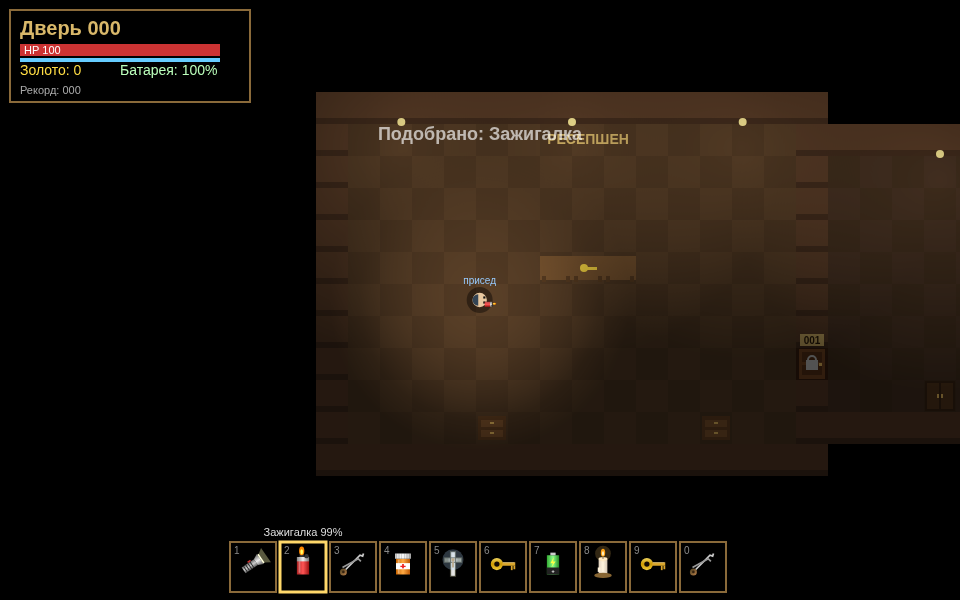
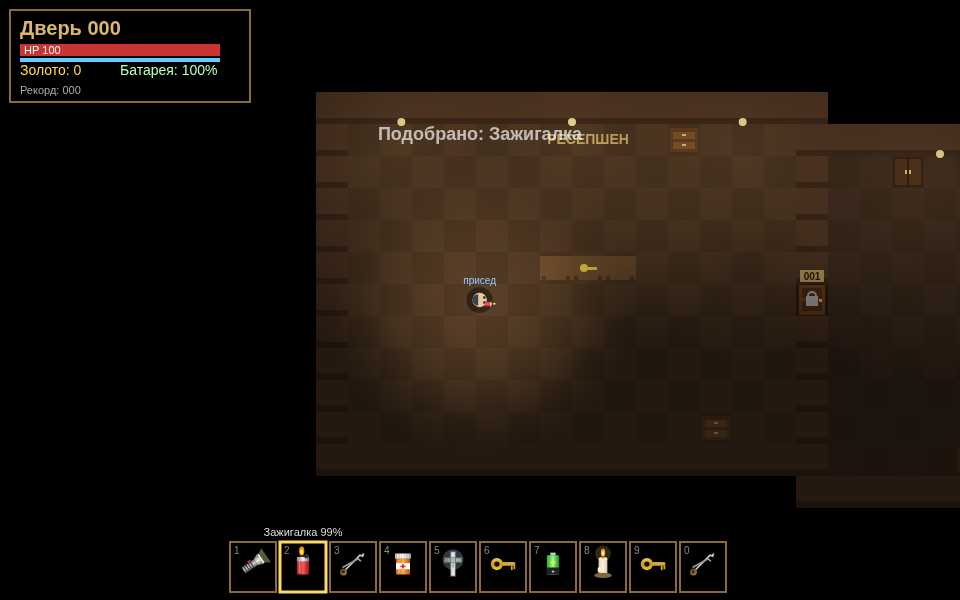
Toggle run/crouch, remove Ctrl crouch, beforeunload guard; redrawn DOORS-inspired entity sprites, vignette/shake

diff --git a/index.html b/index.html
@@ -160,7 +160,8 @@ function useSlot(i){P.sel=i;const it=P.inv[i];
   if(it==='battery'){P.bat=100;P.fuel=100;removeItem('battery');SND.pick();msg('Фонарик заряжен')}else if(it==='vitamins'){P.vit=7;P.hp=Math.min(100,P.hp+15);removeItem('vitamins');SND.pick();msg('Витамины: скорость!')}}
 function useCrucifix(name){removeItem('crucifix');SND.holy();msg('Распятие изгнало: '+name+'!',3)}
 // ---------- INPUT ----------
-addEventListener('keydown',e=>{au();K[e.code]=true;if(['Space','ArrowUp','ArrowDown','ArrowLeft','ArrowRight'].includes(e.code))e.preventDefault();if(!e.repeat)handleKey(e.code)});
+addEventListener('beforeunload',e=>{let a=false;try{a=S&&S.rooms&&!S.dead}catch(_){}if(a){e.preventDefault();e.returnValue=''}});
+addEventListener('keydown',e=>{au();K[e.code]=true;if(['Space','Tab','ShiftLeft','ShiftRight','KeyC','KeyE','KeyF','KeyG','KeyQ','KeyM','KeyW','KeyA','KeyS','KeyD','Digit1','Digit2','Digit3','Digit4','Digit5','Digit6','Digit7','Digit8','Digit9','Digit0'].includes(e.code)&&!e.ctrlKey&&!e.metaKey||['Space','ArrowUp','ArrowDown','ArrowLeft','ArrowRight'].includes(e.code))e.preventDefault();if(!e.repeat)handleKey(e.code)});
 function handleKey(code){const e={code};
  if(code==='KeyM'){MUTE=!MUTE;setVol();msg(MUTE?'Звук выключен (M)':'Звук включён (M)',1.5);return}
  if(code==='Minus'||code==='NumpadSubtract'||code==='BracketLeft'){VOL=Math.max(0,+(VOL-.1).toFixed(2));MUTE=false;setVol();msg('Громкость '+Math.round(VOL*100)+'%',1.2);return}
@@ -174,7 +175,8 @@ function handleKey(code){const e={code};
  if(S.shop){const m=/^Digit([1-4])$/.exec(e.code);if(m){const [it,pr]=SHOP[+m[1]-1];if(P.gold<pr){SND.bad();msg('Недостаточно золота')}else if(addItem(it)){P.gold-=pr;SND.gold();msg('Куплено: '+ITEM[it].n)}}else if(e.code==='Escape'||e.code==='KeyE')S.shop=false;return}
  if(e.code==='KeyE'){const d=!P.hidden&&nearDrop();if(d){if(addItem(d.it)){S.drops.splice(S.drops.indexOf(d),1);SND.pick();msg('Подобрано: '+ITEM[d.it].n,1.5)}}else interact()}
  if(e.code==='KeyG')dropItem();
- if(e.code==='KeyC'||e.code==='ControlLeft'||e.code==='ControlRight'){if(touch&&e.code==='KeyC')P.crouch=!P.crouch}
+ if(e.code==='KeyC'){P.crouch=!P.crouch;if(P.crouch)P.run=false}
+ if(e.code==='ShiftLeft'||e.code==='ShiftRight'){P.run=!P.run;if(P.run)P.crouch=false;msg(P.run?'Бег: ВКЛ':'Бег: выкл',.8)}
  if(e.code==='KeyF'){if(P.inv.includes('flashlight')){if(P.bat>0){P.light=!P.light;tone(1500,.03,'square',.05)}else msg('Батарейка села')}else msg('Нет фонарика')}
  const m=/^Digit(\d)$/.exec(e.code);if(m){const i=(+m[1]+9)%10;if(P.sel===i&&P.inv[i]==='flashlight'&&P.bat>0)P.light=!P.light;useSlot(i)}
  if(e.code==='WheelDown')P.sel=(P.sel+1)%10;if(e.code==='WheelUp')P.sel=(P.sel+9)%10;
@@ -250,7 +252,7 @@ function update(dt){audioTick(dt);
  if(P.hidden||S.codeInput!==null||S.shop)mx=my=0;
  if(Math.hypot(TM.x,TM.y)>.2){mx+=TM.x;my+=TM.y}
  if(P.hidden||S.codeInput!==null||S.shop){mx=my=0}
- P.crouch=touch?P.crouch:!!(K.KeyC||K.ControlLeft||K.ControlRight);if(S.seek&&P.crouch&&touch)P.crouch=false;const want=!P.crouch&&!!(K.ShiftLeft||K.ShiftRight)&&(mx||my);const run=want&&!P.tired;if(run)P.st-=dt*(S.seek?0:20);else P.st=Math.min(100,P.st+dt*(want?6:15));if(P.st<=0){P.st=0;P.tired=true;msg('Нет сил бежать...',1.5)}if(P.tired&&P.st>35)P.tired=false;if(P.stun>0)P.stun-=dt;if(P.vit>0)P.vit-=dt;if(P.fireCd>0)P.fireCd-=dt;
+ if(S.seek&&P.crouch)P.crouch=false;const want=!P.crouch&&!!P.run&&(mx||my);const run=want&&!P.tired;if(run)P.st-=dt*(S.seek?0:20);else P.st=Math.min(100,P.st+dt*(want?6:15));if(P.st<=0){P.st=0;P.tired=true;P.run=false;msg('Нет сил бежать...',1.5)}if(P.tired&&P.st>35)P.tired=false;if(P.stun>0)P.stun-=dt;if(P.vit>0)P.vit-=dt;if(P.fireCd>0)P.fireCd-=dt;
  const sp=(run?205:P.crouch?62:115)*(P.vit>0?1.3:1)*(P.stun>0?0:1);
  if(performance.now()/1000-mouse.t<1.5)P.face=Math.atan2(mouse.y-H/2,mouse.x-W/2);
  if((mx||my)&&sp>0){const l=Math.hypot(mx,my);mx/=l;my/=l;if(performance.now()/1000-mouse.t>=1.5)P.face=Math.atan2(my,mx);move(mx*sp*dt,my*sp*dt);stepT-=dt;if(stepT<=0){SND.step(run);stepT=run?.25:.42}P.noise=run?330:P.crouch?0:70;if(P.crouch)stepT+=dt*.5}else P.noise=0;
@@ -315,7 +317,7 @@ function drawDoor(px,py,num,state){X.fillStyle='#3a2010';X.fillRect(px,py,T,T);i
  if(state==='code'){X.fillStyle='#888';X.fillRect(px+7,py+10,18,13);X.fillStyle='#0f0';X.font='8px monospace';X.fillText('*****',px+16,py+19)}}
 function drawObj(o,px,py,t){switch(o.t){
  case 'dresser':X.fillStyle='#6b4423';X.fillRect(px+2,py+4,28,24);X.fillStyle=o.used?'#2a1a0c':'#8a5a30';X.fillRect(px+5,py+8,22,7);X.fillStyle='#8a5a30';X.fillRect(px+5,py+18,22,7);X.fillStyle='#fc6';X.fillRect(px+14,py+10,4,2);X.fillRect(px+14,py+20,4,2);break;
- case 'wardrobe':X.fillStyle='#3d2614';X.fillRect(px+1,py+1,30,30);X.fillStyle='#5a3a1e';X.fillRect(px+3,py+3,12,26);X.fillRect(px+17,py+3,12,26);X.fillStyle='#fc6';X.fillRect(px+13,py+14,2,4);X.fillRect(px+17,py+14,2,4);break;
+ case 'wardrobe':X.fillStyle='#3d2614';X.fillRect(px+1,py+1,30,30);X.fillStyle='#5a3a1e';X.fillRect(px+3,py+3,12,26);X.fillRect(px+17,py+3,12,26);X.fillStyle='#fc6';X.fillRect(px+13,py+14,2,4);X.fillRect(px+17,py+14,2,4);if(P.hidden===o&&P.hideT>6)ED.hideEyes(px,py,S.t,(P.hideT-6)/4);break;
  case 'bed':X.fillStyle='#5a3a1e';X.fillRect(px,py+2,32,28);X.fillStyle='#8a1e24';X.fillRect(px+2,py+10,28,18);X.fillStyle='#ddd';X.fillRect(px+4,py+4,24,6);break;
  case 'desk':X.fillStyle='#7a5530';X.fillRect(px,py+4,32,24);X.fillStyle='#5a3d22';X.fillRect(px+2,py+24,4,6);X.fillRect(px+26,py+24,4,6);if(o.hasKey){X.fillStyle='#fd4';X.beginPath();X.arc(px+12,py+16,4,0,7);X.fill();X.fillRect(px+15,py+15,10,3)}break;
  case 'shelf':X.fillStyle='#3a2412';X.fillRect(px,py+2,32,28);for(let i=0;i<5;i++){X.fillStyle=['#833','#358','#583','#885','#636'][(hash(o.x,o.y)+i)%5];X.fillRect(px+2+i*6,py+5,5,10);X.fillRect(px+3+i*6,py+18,5,10)}break;
@@ -324,13 +326,49 @@ function drawObj(o,px,py,t){switch(o.t){
  case 'rubble':X.fillStyle='#4a4038';X.fillRect(px+1,py+1,30,30);X.fillStyle='#6a5a4a';X.fillRect(px+4,py+6,10,8);X.fillRect(px+16,py+16,12,10);break;
  case 'fire':for(let i=0;i<3;i++){X.fillStyle=['#f40','#f80','#fd2'][i];const h=14-i*4+Math.sin(t*15+i)*3;X.beginPath();X.moveTo(px+6+i*3,py+28);X.lineTo(px+16,py+28-h-8);X.lineTo(px+26-i*3,py+28);X.fill()}break;
  case 'plant':X.fillStyle='#2f5a22';X.beginPath();X.arc(px+16,py+16,14,0,7);X.fill();X.fillStyle='#3f7a2c';X.beginPath();X.arc(px+11,py+12,7,0,7);X.arc(px+21,py+19,7,0,7);X.fill();break;
- case 'snare':X.strokeStyle=o.used?'#555':'#777';X.lineWidth=2;X.beginPath();X.arc(px+16,py+16,o.used?5:9,0,7);X.stroke();if(!o.used)for(let i=0;i<8;i++){const a=i*Math.PI/4;X.beginPath();X.moveTo(px+16+Math.cos(a)*9,py+16+Math.sin(a)*9);X.lineTo(px+16+Math.cos(a)*13,py+16+Math.sin(a)*13);X.stroke()}break;
+ case 'snare':ED.snare(px,py,o.used,S.t);break;
  case 'crate':X.fillStyle='#555a60';X.fillRect(px+1,py+1,30,30);X.fillStyle='#3a3e44';X.fillRect(px+4,py+4,24,4);X.fillStyle='#f33';X.fillRect(px+24,py+12,3,3);break;
  case 'breaker':X.fillStyle='#777';X.fillRect(px+2,py,28,32);X.fillStyle='#222';X.fillRect(px+6,py+4,20,24);X.fillStyle=S.fuses>=10?'#0f0':'#f00';X.fillRect(px+12,py+8,8,6);X.fillStyle='#aaa';X.fillRect(px+14,py+16,4,10);break;
  case 'fuse':X.fillStyle='#fd4';X.fillRect(px+10,py+12,12,8);X.fillStyle='#aaa';X.fillRect(px+7,py+13,3,6);X.fillRect(px+22,py+13,3,6);break;
- case 'fake':drawDoor(px,py,o.num,'closed');break;
+ case 'fake':drawDoor(px,py,o.num,'closed');{const dd=Math.hypot(P.x-px-16,P.y-py-16);if(dd<90)ED.dupeMouth(px,py,S.t,(90-dd)/50)}break;
  case 'clue':X.fillStyle='#eee8d0';X.fillRect(px+6,py+8,20,16);X.fillStyle='#222';X.font='bold 9px Arial';X.textAlign='center';X.fillText(pad(o.num),px+16,py+20);X.fillStyle='#d9b86a';X.font='10px Arial';X.fillText('Следующая дверь',px+16,py+4);break}}
 function light(x,y,r,s,col){const g=LX.createRadialGradient(x,y,0,x,y,r);g.addColorStop(0,'rgba(0,0,0,'+s+')');g.addColorStop(1,'rgba(0,0,0,0)');LX.fillStyle=g;LX.beginPath();LX.arc(x,y,r,0,7);LX.fill()}
+// ===== Entity sprites (procedural, inspired versions) =====
+const ED={
+smoke(x,y,r,c,t,n,seed){for(let i=0;i<n;i++){const a=i/n*6.283+t*(1+(i%3)*.4)+seed,rr=r*(.6+.4*Math.sin(t*3+i*1.7));X.fillStyle=c;X.beginPath();X.arc(x+Math.cos(a)*rr*.55,y+Math.sin(a)*rr*.55,rr*.55,0,7);X.fill()}},
+rush(x,y,t,amb,dir){const R=34,body=amb?'#0d2a12':'#0a0a0a',glow=amb?'rgba(90,255,110,':'rgba(255,255,255,';
+ for(let k=6;k>0;k--){X.globalAlpha=.08*(7-k)/6+.03;ED.smoke(x-dir*k*22,y+Math.sin(t*9+k)*6,R*(1-k*.08),body,t+k,5,k);}X.globalAlpha=1;
+ const g=X.createRadialGradient(x,y,10,x,y,90);g.addColorStop(0,glow+'.35)');g.addColorStop(1,glow+'0)');X.fillStyle=g;X.beginPath();X.arc(x,y,90,0,7);X.fill();
+ const jx=amb?ri(-4,4):ri(-2,2),jy=amb?ri(-4,4):ri(-2,2);ED.smoke(x+jx,y+jy,R,body,t*2,8,0);X.fillStyle=body;X.beginPath();X.arc(x+jx,y+jy,R*.8,0,7);X.fill();x+=jx;y+=jy;
+ if(amb){X.fillStyle='#b8d8b0';X.beginPath();X.ellipse(x,y,22,26,0,0,7);X.fill();X.fillStyle='#000';X.beginPath();X.ellipse(x-8,y-7,6,8,0,0,7);X.ellipse(x+8,y-7,6,8,0,0,7);X.fill();X.fillStyle='#9f9';X.beginPath();X.arc(x-8,y-6,1.5,0,7);X.arc(x+8,y-6,1.5,0,7);X.fill();X.fillStyle='#000';X.beginPath();X.ellipse(x,y+11,7,9+Math.sin(t*20)*2,0,0,7);X.fill();
+  if(Math.random()<.4){X.fillStyle='rgba(80,255,100,.5)';X.fillRect(x-30,y+ri(-25,25),60,ri(2,5))}}
+ else{X.fillStyle='#fff';X.beginPath();X.ellipse(x-11,y-10,8,7,-.2,0,7);X.ellipse(x+11,y-10,8,7,.2,0,7);X.fill();X.fillStyle='#000';X.beginPath();X.arc(x-11,y-9,2.5,0,7);X.arc(x+11,y-9,2.5,0,7);X.fill();
+  X.fillStyle='#fff';X.beginPath();X.moveTo(x-22,y+2);X.quadraticCurveTo(x,y+30,x+22,y+2);X.quadraticCurveTo(x,y+12,x-22,y+2);X.fill();X.strokeStyle='#000';X.lineWidth=1;for(let i=-3;i<=3;i++){X.beginPath();X.moveTo(x+i*6,y+5);X.lineTo(x+i*6,y+18-Math.abs(i)*2);X.stroke()}}},
+screech(x,y,t,open){X.fillStyle='#050505';for(let i=0;i<12;i++){const a=i/12*6.283+Math.sin(t*4+i)*.25,l=18+6*Math.sin(t*6+i*2);X.beginPath();X.moveTo(x+Math.cos(a-.2)*10,y+Math.sin(a-.2)*10);X.lineTo(x+Math.cos(a)*l,y+Math.sin(a)*l);X.lineTo(x+Math.cos(a+.2)*10,y+Math.sin(a+.2)*10);X.fill()}
+ X.beginPath();X.arc(x,y,13,0,7);X.fill();const m=open?10:4;X.fillStyle='#3a0606';X.beginPath();X.arc(x,y+1,m,0,7);X.fill();X.fillStyle='#eee';const n=open?12:6;for(let i=0;i<n;i++){const a=i/n*6.283;X.beginPath();X.moveTo(x+Math.cos(a-.25)*m,y+1+Math.sin(a-.25)*m);X.lineTo(x+Math.cos(a)*m*.45,y+1+Math.sin(a)*m*.45);X.lineTo(x+Math.cos(a+.25)*m,y+1+Math.sin(a+.25)*m);X.fill()}},
+eyes(x,y,t){const g=X.createRadialGradient(x,y,8,x,y,70);g.addColorStop(0,'rgba(170,80,255,.55)');g.addColorStop(1,'rgba(90,0,200,0)');X.fillStyle=g;X.beginPath();X.arc(x,y,70,0,7);X.fill();
+ X.fillStyle='#14061f';X.beginPath();X.arc(x,y,24,0,7);X.fill();X.fillStyle='#2a0c40';X.beginPath();X.arc(x-4,y-4,16,0,7);X.fill();
+ const ang=Math.atan2(P.y-y,P.x-x);for(let i=0;i<14;i++){const a=i*2.4+t*.15,r=i<1?0:i<6?11:19,ex=x+Math.cos(a)*r,ey=y+Math.sin(a)*r,s=i<1?6:i<6?4.5:3.5,bl=Math.sin(t*2+i*3)>.95?.2:1;
+  X.fillStyle='#e8d8ff';X.beginPath();X.ellipse(ex,ey,s,s*.7*bl,0,0,7);X.fill();X.fillStyle='#a020ff';X.beginPath();X.arc(ex+Math.cos(ang)*s*.35,ey+Math.sin(ang)*s*.25,s*.45*bl,0,7);X.fill()}},
+halt(x,y,t,a){X.globalAlpha=a;const g=X.createRadialGradient(x,y,5,x,y,60);g.addColorStop(0,'rgba(80,230,255,.6)');g.addColorStop(1,'rgba(0,120,200,0)');X.fillStyle=g;X.beginPath();X.arc(x,y,60,0,7);X.fill();
+ X.fillStyle='#0a2a3a';X.beginPath();X.moveTo(x-14,y+22);X.quadraticCurveTo(x-18,y-6,x,y-22);X.quadraticCurveTo(x+18,y-6,x+14,y+22);for(let i=0;i<5;i++)X.lineTo(x+14-i*7,y+22-(i%2?8:0));X.fill();
+ X.fillStyle='#7ff';X.beginPath();X.ellipse(x-5,y-9,3,2,0,0,7);X.ellipse(x+5,y-9,3,2,0,0,7);X.fill();
+ for(let i=0;i<6;i++){X.fillStyle='rgba(160,255,255,'+Math.random()*.5+')';X.fillRect(x-20+Math.random()*40,y-25+Math.random()*50,ri(3,14),1)}X.globalAlpha=1},
+seek(x,y,t,trail){X.fillStyle='rgba(5,5,5,.8)';if(trail)for(let i=0;i<trail.length;i+=2){const p=trail[i];X.beginPath();X.ellipse(p.x,p.y,9,6,i,0,7);X.fill()}
+ const w=Math.sin(t*8);X.fillStyle='#060606';X.beginPath();X.ellipse(x,y,15+w,22-w,0,0,7);X.fill();
+ for(let i=0;i<4;i++){X.beginPath();X.ellipse(x+(i-1.5)*8,y+20+Math.sin(t*5+i)*3,4,6+Math.sin(t*7+i)*2,0,0,7);X.fill()}
+ X.strokeStyle='#060606';X.lineWidth=5;X.lineCap='round';X.beginPath();X.moveTo(x-12,y-4);X.lineTo(x-24,y+10+w*6);X.moveTo(x+12,y-4);X.lineTo(x+24,y+10-w*6);X.stroke();
+ X.fillStyle='#fff';X.beginPath();X.ellipse(x,y-6,8,6,0,0,7);X.fill();X.fillStyle='#000';X.beginPath();X.arc(x+Math.cos(Math.atan2(P.y-y,P.x-x))*3,y-6,3,0,7);X.fill();X.lineCap='butt'},
+figure(x,y,t,alert,face){X.save();X.translate(x,y);X.rotate(face||0);const b=Math.sin(t*(alert?10:4));
+ X.strokeStyle='#5a1a10';X.lineWidth=6;X.lineCap='round';X.beginPath();X.moveTo(0,-14);X.lineTo(16+b*4,-26);X.lineTo(30+b*6,-20);X.moveTo(0,14);X.lineTo(16-b*4,26);X.lineTo(30-b*6,20);X.stroke();
+ X.fillStyle='#6a2416';X.beginPath();X.ellipse(-2,0,20,17,0,0,7);X.fill();X.strokeStyle='#c8735a';X.lineWidth=2;for(let i=-2;i<=2;i++){X.beginPath();X.arc(-8,i*5,13,-.6,.6);X.stroke()}
+ X.fillStyle='#8a3020';X.beginPath();X.ellipse(14,0,11,10,0,0,7);X.fill();X.fillStyle='#200';X.beginPath();X.ellipse(19,0,6,8,0,0,7);X.fill();X.fillStyle='#f2d0a8';for(let i=-3;i<=3;i++){X.fillRect(15,i*2.2-1,3,1.6);X.fillRect(21,i*2.2-1,3,1.6)}X.restore();X.lineCap='butt'},
+jeff(x,y,t){X.fillStyle='rgba(0,0,0,.4)';X.beginPath();X.ellipse(x,y+14,14,5,0,0,7);X.fill();X.fillStyle='#2a1838';X.fillRect(x-9,y-6,18,22);X.fillStyle='#4a2a6a';X.fillRect(x-14,y-6,5,18);X.fillRect(x+9,y-6,5,18);
+ X.fillStyle='#e8e0d0';X.beginPath();X.ellipse(x,y-14,9,11,0,0,7);X.fill();X.fillStyle='#111';X.beginPath();X.ellipse(x-4,y-15,2,3,0,0,7);X.ellipse(x+4,y-15,2,3,0,0,7);X.fill();X.strokeStyle='#111';X.lineWidth=1.5;X.beginPath();X.arc(x,y-10,4,.2,Math.PI-.2);X.stroke();X.fillStyle='#4a2a6a';X.fillRect(x-10,y-27,20,4);X.fillRect(x-6,y-37,12,10)},
+snare(px,py,used,t){X.fillStyle=used?'#2a2a2a':'#3a3428';X.beginPath();X.arc(px+16,py+16,10,0,7);X.fill();X.fillStyle=used?'#555':'#9a9080';const n=10;for(let i=0;i<n;i++){const a=i/n*6.283;X.beginPath();X.moveTo(px+16+Math.cos(a-.2)*9,py+16+Math.sin(a-.2)*9);X.lineTo(px+16+Math.cos(a)*(used?11:16),py+16+Math.sin(a)*(used?11:16));X.lineTo(px+16+Math.cos(a+.2)*9,py+16+Math.sin(a+.2)*9);X.fill()}X.fillStyle='#5a0';X.beginPath();X.arc(px+16,py+16,3,0,7);X.fill()},
+dupeMouth(px,py,t,k){X.globalAlpha=k;X.fillStyle='#200';X.beginPath();X.ellipse(px+16,py+20,10,5+3*Math.sin(t*6),0,0,7);X.fill();X.fillStyle='#eee';for(let i=-4;i<=4;i++){X.beginPath();X.moveTo(px+16+i*2.2-1,py+16);X.lineTo(px+16+i*2.2,py+20);X.lineTo(px+16+i*2.2+1,py+16);X.fill()}X.fillStyle='#f33';X.beginPath();X.arc(px+11,py+8,1.5,0,7);X.arc(px+21,py+8,1.5,0,7);X.fill();X.globalAlpha=1},
+hideEyes(px,py,t,k){X.globalAlpha=Math.min(1,k);X.fillStyle='#000';X.fillRect(px+6,py+8,20,10);for(let i=0;i<Math.min(6,1+k*5|0);i++){const ex=px+8+(i*7)%18,ey=py+10+(i>2?4:0);X.fillStyle='#fff';X.beginPath();X.ellipse(ex,ey,2.5,1.6,0,0,7);X.fill();X.fillStyle='#000';X.fillRect(ex-.6,ey-1,1.2,2)}X.globalAlpha=1}};
+function vignette(k,c){if(k<=0)return;const g=X.createRadialGradient(W/2,H/2,Math.min(W,H)*.25,W/2,H/2,Math.max(W,H)*.7);g.addColorStop(0,'rgba('+c+',0)');g.addColorStop(1,'rgba('+c+','+Math.min(.85,k)+')');X.fillStyle=g;X.fillRect(0,0,W,H)}
 function render(){
  const t=S.t,room=rooms[P.room];let cx=Math.round(P.x-W/2),cy=Math.round(P.y-H/2);if(S.shake>0){cx+=ri(-5,5);cy+=ri(-5,5)}
  X.fillStyle='#000';X.fillRect(0,0,W,H);X.save();X.translate(-cx,-cy);
@@ -344,7 +382,7 @@ function render(){
  for(const d of allDoors){if(d.x<x0-1||d.x>x1+1||d.y<y0-1||d.y>y1+1)continue;const ft=FLOOR[rooms[d.room].t];X.fillStyle=ft[0];X.fillRect(d.x*T,d.y*T,T,T);drawDoor(d.x*T,d.y*T,d.closet?null:d.n,d.open?'open':d.code?'code':d.locked?'locked':'closed')}
  for(let n=Math.max(0,P.room-2);n<=Math.min(100,P.room+2);n++){const r=rooms[n];for(const l of r.lamps){X.fillStyle='#fe9';X.beginPath();X.arc(l.x,l.y-6,4,0,7);X.fill()}
   for(const o of r.objs)if(!o.gone)drawObj(o,o.x*T,o.y*T,t);
-  if(r.t==='shop'){const jx=(r.x0+6)*T,jy=(r.y0+2)*T+16;X.fillStyle='#5a2a7a';X.beginPath();X.arc(jx,jy,13,0,7);X.fill();X.fillStyle='#fff';X.beginPath();X.arc(jx-5,jy-3,3,0,7);X.arc(jx+5,jy-3,3,0,7);X.fill();X.fillStyle='#ff8';X.font='bold 11px Arial';X.textAlign='center';X.fillText('ДЖЕФФ',jx,jy-18)}
+  if(r.t==='shop'){const jx=(r.x0+6)*T,jy=(r.y0+2)*T+16;ED.jeff(jx,jy,t);X.fillStyle='#ff8';X.font='bold 11px Arial';X.textAlign='center';X.fillText('ДЖЕФФ',jx,jy-18)}
   if(r.t==='reception'){X.fillStyle='#d9b86a';X.font='bold 14px Arial';X.textAlign='center';X.fillText('РЕСЕПШЕН',(r.x0+8)*T+16,(r.y0+1)*T+20)}
   if(r.t==='library'){X.fillStyle='#d9b86a';X.font='bold 14px Arial';X.textAlign='center';X.fillText('БИБЛИОТЕКА',(r.x0+r.w/2)*T,(r.y0+1)*T+20)}}
  // player
@@ -352,9 +390,9 @@ function render(){
  if(!P.hidden){X.save();X.translate(P.x,P.y);if(P.crouch){X.fillStyle='rgba(0,0,0,.4)';X.beginPath();X.arc(0,0,13,0,7);X.fill();X.scale(.72,.72)}X.rotate(P.face);X.fillStyle=P.hurtT>0?'#f66':'#e8c8a0';X.beginPath();X.arc(0,0,10,0,7);X.fill();X.fillStyle='#345';X.beginPath();X.arc(-2,0,8,Math.PI/2,Math.PI*1.5);X.fill();X.fillStyle='#111';X.fillRect(5,-5,3,3);X.fillRect(5,2,3,3);
   if(P.inv[P.sel]){X.save();X.translate(13,6);X.rotate(Math.PI/2);drawIcon(X,P.inv[P.sel],0,0,16);X.restore()}else if(P.light){X.fillStyle='#888';X.fillRect(8,4,8,4)}X.restore();if(P.crouch){X.fillStyle='#9cf';X.font='10px Arial';X.textAlign='center';X.fillText('присед',P.x,P.y-16)}}
  // entities under lighting
- const f=S.figure;if(f&&Math.abs(f.room-P.room)<=1){X.fillStyle='#5a1a10';X.beginPath();X.ellipse(f.x,f.y,18,15,0,0,7);X.fill();X.fillStyle='#a03018';X.beginPath();X.arc(f.x+6,f.y,8,0,7);X.fill();X.fillStyle='#f4a080';for(let i=-2;i<=2;i++)X.fillRect(f.x+10,f.y+i*3-1,5,2)}
- if(S.halt&&S.halt.phase!=='idle'){const h=S.halt;X.globalAlpha=h.phase==='chase'?.6+.3*Math.sin(t*6):.25+.15*Math.sin(t*20);X.fillStyle='#6af';X.beginPath();X.arc(h.x,P.y,16,0,7);X.fill();X.fillStyle='#013';X.fillRect(h.x-7,P.y-5,4,4);X.fillRect(h.x+3,P.y-5,4,4);X.globalAlpha=1}
- if(S.seek){const k=S.seek;X.fillStyle='#050505';X.beginPath();X.arc(k.x,k.y,16,0,7);X.fill();X.fillStyle='#fff';X.beginPath();X.ellipse(k.x,k.y,8,5,0,0,7);X.fill();X.fillStyle='#000';X.beginPath();X.arc(k.x+(P.x>k.x?3:-3),k.y,3,0,7);X.fill()}
+ const f=S.figure;if(f&&Math.abs(f.room-P.room)<=1){ED.figure(f.x,f.y,t,f.alert,f.face!=null?f.face:Math.atan2(P.y-f.y,P.x-f.x))}
+ if(S.halt&&S.halt.phase!=='idle'){const h=S.halt;ED.halt(h.x,P.y,t,h.phase==='chase'?.75+.2*Math.sin(t*6):.3+.15*Math.sin(t*20))}
+ if(S.seek){const k=S.seek;ED.seek(k.x,k.y,t,S.trail)}
  X.restore();
  // lighting
  let dk=room.dark?0.965:room.t==='halt'?0.72:room.t==='library'||room.t==='electric'?0.82:0.6;if(S.flick>0&&Math.random()<.45)dk=0.97;
@@ -371,12 +409,14 @@ function render(){
  if(S.eyes&&S.eyes.room===P.room){X.fillStyle='rgba(120,40,200,.12)';X.fillRect(0,0,W,H)}
  // glowing entities above darkness
  X.save();X.translate(-cx,-cy);
- if(S.eyes&&Math.abs(S.eyes.room-P.room)<=1){const e=S.eyes;X.fillStyle='rgba(140,60,255,.35)';X.beginPath();X.arc(e.x,e.y,30,0,7);X.fill();for(let i=0;i<8;i++){const a=i/8*Math.PI*2+t*.3,ex=e.x+Math.cos(a)*18,ey=e.y+Math.sin(a)*18;X.fillStyle='#fff';X.beginPath();X.ellipse(ex,ey,5,3,0,0,7);X.fill();X.fillStyle='#60f';X.beginPath();X.arc(ex,ey,2,0,7);X.fill()}}
- for(const e of S.ents){if(e.state!=='go')continue;const amb=e.type==='ambush';X.fillStyle=amb?'rgba(120,255,120,.25)':'rgba(255,255,255,.2)';X.beginPath();X.arc(e.x,e.y,70+Math.sin(t*30)*8,0,7);X.fill();
-  X.fillStyle=amb?'#163':'#222';X.beginPath();X.arc(e.x+ri(-3,3),e.y+ri(-3,3),34,0,7);X.fill();X.fillStyle=amb?'#bfb':'#eee';X.beginPath();X.arc(e.x-11,e.y-8,6,0,7);X.arc(e.x+11,e.y-8,6,0,7);X.fill();X.fillStyle='#000';X.beginPath();X.ellipse(e.x,e.y+12,14,8,0,0,7);X.fill()}
- if(S.screech){const s=S.screech,x=P.x+Math.cos(s.ang)*70,y=P.y+Math.sin(s.ang)*70;X.fillStyle='rgba(0,0,0,.9)';X.beginPath();X.arc(x,y,14,0,7);X.fill();X.fillStyle='#ddd';X.beginPath();X.arc(x-4,y-3,2,0,7);X.arc(x+4,y-3,2,0,7);X.fill();X.strokeStyle='#888';X.beginPath();X.arc(x,y+4,5,0,Math.PI);X.stroke()}
+ if(S.eyes&&Math.abs(S.eyes.room-P.room)<=1){const e=S.eyes;ED.eyes(e.x,e.y,t)}
+ for(const e of S.ents){if(e.state!=='go')continue;ED.rush(e.x,e.y,t,e.type==='ambush',e.vx!=null?Math.sign(e.vx)||1:(e.x<P.x?1:-1))}
+ if(S.screech){const s=S.screech,x=P.x+Math.cos(s.ang)*70,y=P.y+Math.sin(s.ang)*70;ED.screech(x,y,t,s.t!=null&&s.t<.6)}
  if(f&&f.room===P.room&&f.alert){X.fillStyle='rgba(255,40,0,.25)';X.beginPath();X.arc(f.x,f.y,26,0,7);X.fill()}
  X.restore();
+ {let v=0,c='120,0,0';const nr=S.ents.some(e=>e.state==='go'&&Math.abs(e.x-P.x)<500);if(nr){v=.6;c=S.ents.some(e=>e.type==='ambush'&&e.state==='go')?'0,90,20':'0,0,0'}
+ if(S.screech){v=Math.max(v,.5)}if(S.seek){v=Math.max(v,.55);c='0,0,0'}if(S.halt&&S.halt.phase==='chase'){v=Math.max(v,.5);c='0,70,110'}if(S.eyes&&S.eyes.room===P.room){v=Math.max(v,.35);c='60,0,110'}if(f&&f.room===P.room&&f.alert){v=Math.max(v,.6);c='110,0,0'}
+ if(v>.45&&!(S.shake>0))S.shake=.08;vignette(v,c)}
  drawHUD()}
 function box(x,y,w,h){X.fillStyle='rgba(0,0,0,.7)';X.fillRect(x,y,w,h);X.strokeStyle='#8a6a3a';X.lineWidth=2;X.strokeRect(x,y,w,h)}
 function drawHUD(){const room=rooms[P.room];X.textAlign='left';btns=[];
@@ -404,11 +444,11 @@ function drawHUD(){const room=rooms[P.room];X.textAlign='left';btns=[];
  if(touch&&started&&!S.dead&&!S.win){
   if(S.codeInput!==null){for(let d=0;d<10;d++){const bx=W/2-175+(d%5)*70,by=H/2+80+Math.floor(d/5)*50;addBtn(bx,by,60,42,'Digit'+d,''+d,0,1)}addBtn(W/2+180,H/2+80,70,42,'Enter','OK',0,1);addBtn(W/2+180,H/2+130,70,42,'Escape','✕',0,1)}
   else if(S.shop){for(let k=0;k<4;k++)addBtn(W/2-190,H/2-65+k*30,380,28,'Digit'+(k+1));addBtn(W/2+130,H/2+90,60,30,'Escape','✕',0,1)}
-  else if(!S.hb){addBtn(W-70,110,60,40,'KeyM',MUTE?'Звук':'Тише',0,1);addBtn(W-100,H-200,80,80,'KeyE','E',0,1);addBtn(W-190,H-110,80,80,'KeyF','F',0,1);addBtn(W-100,H-110,80,80,'ShiftLeft','Бег',1,1);for(let k=0;k<10;k++)addBtn(W/2-250+k*50,H-58,46,50,'Digit'+((k+1)%10));addBtn(W-190,H-200,80,80,'KeyG','G',0,1);addBtn(W-280,H-200,80,80,'KeyC',P.crouch?'Встать':'Присед',0,1)}
+  else if(!S.hb){addBtn(W-70,110,60,40,'KeyM',MUTE?'Звук':'Тише',0,1);addBtn(W-100,H-200,80,80,'KeyE','E',0,1);addBtn(W-190,H-110,80,80,'KeyF','F',0,1);addBtn(W-100,H-110,80,80,'ShiftLeft',P.run?'Шаг':'Бег',0,1);for(let k=0;k<10;k++)addBtn(W/2-250+k*50,H-58,46,50,'Digit'+((k+1)%10));addBtn(W-190,H-200,80,80,'KeyG','G',0,1);addBtn(W-280,H-200,80,80,'KeyC',P.crouch?'Встать':'Присед',0,1)}
   if(TM.id!==null){X.strokeStyle='rgba(255,255,255,.35)';X.lineWidth=3;X.beginPath();X.arc(TM.cx,TM.cy,60,0,7);X.stroke();X.fillStyle='rgba(255,255,255,.35)';X.beginPath();X.arc(TM.cx+TM.x*60,TM.cy+TM.y*60,24,0,7);X.fill()}
   else{X.fillStyle='rgba(255,255,255,.4)';X.font='13px Arial';X.fillText('Касание слева — джойстик',140,H-20)}}
  if(!started){X.fillStyle='rgba(0,0,0,.82)';X.fillRect(0,0,W,H);X.fillStyle='#d9b86a';X.font='bold 56px Georgia';X.fillText('DOORS 2D',W/2,150);X.font='18px Arial';X.fillStyle='#ccc';X.fillText('Фан-ремейк: Отель, двери 0–100',W/2,185);
-  ['WASD/стрелки — движение, Shift — бег (шумно!)','E — взаимодействие / спрятаться, F — фонарик','1–0 / колесо — 10 слотов, G — бросить, E — подобрать, C/Ctrl — присесть','Мышь — направление взгляда. На телефоне: джойстик слева, кнопки справа','M — звук вкл/выкл, −/+ — громкость, K — авторы звуков и музыки','Нажми любую клавишу, чтобы начать'].forEach((s,i)=>X.fillText(s,W/2,250+i*30))}
+  ['WASD/стрелки — движение, Shift — бег вкл/выкл (шумно!)','E — взаимодействие / спрятаться, F — фонарик','1–0 / колесо — 10 слотов, G — бросить, E — подобрать, C — присесть/встать','Мышь — направление взгляда. На телефоне: джойстик слева, кнопки справа','M — звук вкл/выкл, −/+ — громкость, K — авторы звуков и музыки','Нажми любую клавишу, чтобы начать'].forEach((s,i)=>X.fillText(s,W/2,250+i*30))}
  if(S.dead){X.fillStyle='rgba(0,0,20,.85)';X.fillRect(0,0,W,H);X.fillStyle='#c22';X.font='bold 48px Georgia';X.fillText('ТЫ ПОГИБ',W/2,170);X.fillStyle='#ddd';X.font='20px Arial';X.fillText('Дошёл до двери '+pad(P.best),W/2,215);
   X.fillStyle='#7cf';X.font='italic 18px Georgia';X.fillText('Лунный свет шепчет:',W/2,290);wrap(HINTS[S.dead]||'Будь осторожнее...',W/2,325,700,26);X.fillStyle='#fff';X.font='18px Arial';X.fillText('R / Enter / клик — заново',W/2,460)}
  if(S.win){X.fillStyle='rgba(20,20,0,.85)';X.fillRect(0,0,W,H);X.fillStyle='#fd4';X.font='bold 48px Georgia';X.fillText('ПОБЕДА!',W/2,200);X.fillStyle='#fff';X.font='20px Arial';X.fillText('Свет включён, Фигура повержена — ты сбежал из отеля!',W/2,260);X.fillText('Золото: '+P.gold,W/2,300);X.fillText('R / Enter — сыграть снова',W/2,380)}}
